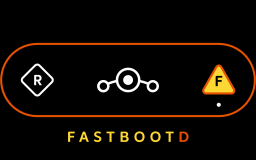
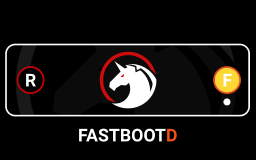
Adjust recovery to use DU graphics instead
* There are no issue(s) with Lineage's graphics, but we want to put our own touch/feel to the recovery image

Changed region(s): [[0.0, 0.25, 1.0, 0.75], [0.25, 0.7812, 0.75, 0.9062]]

diff --git a/recovery_ui/screen_ui.cpp b/recovery_ui/screen_ui.cpp
@@ -567,20 +567,26 @@ void ScreenRecoveryUI::SetColor(UIElement e) const {
       if (fastbootd_logo_enabled_)
         gr_color(0xfd, 0xd8, 0x35, 255);
       else
-        gr_color(0xf8, 0x90, 0xff, 255);
+        gr_color(0xff, 0xff, 0xff, 255);
       break;
     case UIElement::HEADER:
-      gr_color(247, 0, 6, 255);
+      if (fastbootd_logo_enabled_)
+        gr_color(0xfd, 0xd8,0x35, 255);
+      else
+        gr_color(0xff, 0x00, 0x00, 255);
       break;
     case UIElement::MENU:
     case UIElement::MENU_SEL_BG:
-      gr_color(0xd8, 0xd8, 0xd8, 255);
+    case UIElement::SCROLLBAR:
+      if (fastbootd_logo_enabled_)
+        gr_color(0xe6, 0x51, 0x00, 255);
+      else
+        gr_color(0xff, 0x00, 0x00, 255);
       break;
     case UIElement::MENU_SEL_BG_ACTIVE:
-      gr_color(0, 156, 100, 255);
+      gr_color(0, 255, 0, 0);
       break;
     case UIElement::MENU_SEL_FG:
-    case UIElement::SCROLLBAR:
       gr_color(0x16, 0x7c, 0x80, 255);
       break;
     case UIElement::LOG:
